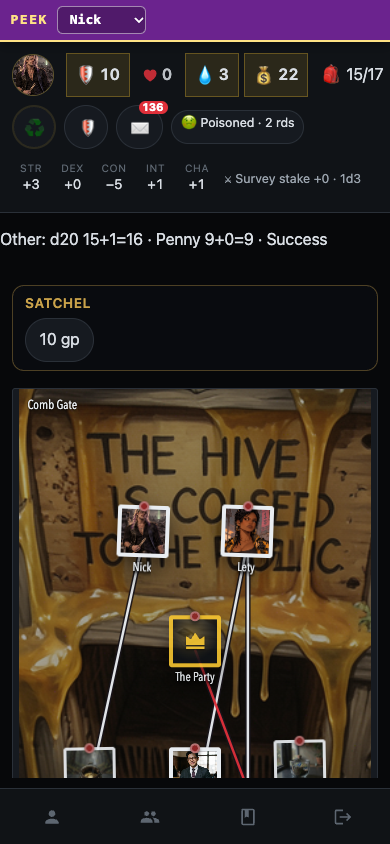
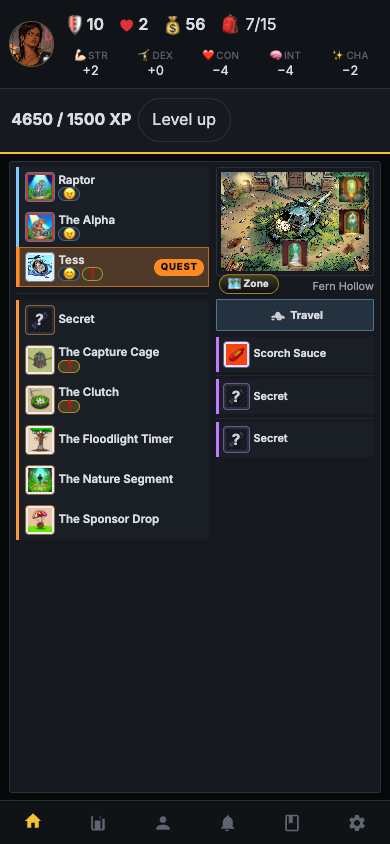
wiki: refresh

diff --git a/rules/phone-app.md b/rules/phone-app.md
@@ -2,7 +2,7 @@
 
 The **player app** is the site you open on your phone during session. Voice chat is for talking only — rolls, combat, inventory, and room text all happen here.
 
-The layout: a **header** (portrait, HP, status, stats), the **room panel**, a **home bar** (activity log and notifications), and the **bottom nav** — **Home · Me · Info · Settings**.
+The layout: a **header** (portrait, HP, status, stats), the **room panel**, and the **bottom nav** — **Home · Logs · Me · Notifications · Info · Settings**.
 
 ## The header
 
@@ -15,21 +15,27 @@ The layout: a **header** (portrait, HP, status, stats), the **room panel**, a **
 
 Between fights the room splits in two:
 
-- **Left:** everyone and everything here — **people → obstacles → items** — with attitude, quest and secret chips. Tap a row to open its sheet (talk, smash, loot, charm…). A **?** row is an unspotted secret; tap to search.
-- **Right:** the **room picture** (tap the card to flip between the scene and the **zone map**), a **Travel** button, and **Rest** / **Join combat** when they apply.
+- **Left:** everyone and everything here — **people → obstacles → items** — with attitude, quest and secret chips. Tap a row to open its sheet (talk, smash, loot, charm…). A **?** row is an unspotted secret; tap to search. Someone with a job for you lights up in your colour with a **QUEST** tag — tap them for the quest, a line about it, and **Accept** / **Decline**.
+- **Right:** the **room picture** (the **Zone** / **Room** pill in its corner flips the card between the scene and the **zone map**), a **Travel** button, and **Rest** / **Join combat** when they apply.
 
 Tap the room text to read the full card.
+
+IMG|assets/guide/01-explore.png|Home — the room list on the left; Tess has a quest for you
 
 ## Moving and party votes
 
 **Travel is per crawler.** Open **Travel** and pick an exit, or tap an exit thumbnail on the edge of the zone map. Only **your** crawler moves; nobody follows unless they choose to.
 
+IMG|assets/guide/02-travel.png|Travel — pick an exit; Gather and Follow sit below
+
 **Party votes** — rest, call it a night, retreat, surrender, scout — use the vote bar when someone proposes one. A majority of crawlers **present** carries it.
 
-## Home bar: activity and notifications
+## Logs and Notifications
 
-- **Activity log** — tonight's rolls and beats. Filter **All** or **Me**.
-- **Notifications** — what your deeds set off, plus quest and achievement updates stacked together. Nobody confirms anything; payouts land on their own.
+- **Logs** — tonight's rolls and beats. Filter **All** or **Me**.
+- **Notifications** — what your deeds set off, then your **Quests** (with offers nearby) and **Achievements**, stacked on one page. Nobody confirms anything; payouts land on their own.
+
+IMG|assets/guide/08-notifications.png|Notifications, quests and achievements
 
 ## Info tab
 
@@ -48,13 +54,19 @@ Fold-outs, all shut until you open them (your phone remembers which you like ope
 | **Floor rules** | This floor's quirks |
 | **Bounty hunters** | Top bounty hunters on the floor; tap for stats |
 
+IMG|assets/guide/05-archive.png|Archive inside Info
+
 ## Me tab
 
 Your sheet: equipped weapon, **inventory** grid, then tiles for **spells**, **class abilities**, and **skills** (tap the scroll to read, the action to use). **Bonds** shows what your active bonds are doing for you right now. **About me** holds your profile, portrait upload, and the **Story so far**.
 
+IMG|assets/guide/07-me.png|Me — equipped weapon, inventory, spells and abilities
+
 ## Inventory
 
 Tap the 🎒 line in the header: **Equipped** (hands, worn slots, one pet slot) and **Pack**. Tap a slot to see what fits; tap an item to read it, equip it, or use it. `↗` gives an item to another crawler; `×` drops it.
+
+IMG|assets/guide/04-inventory.png|Inventory sheet
 
 ## Combat
 
